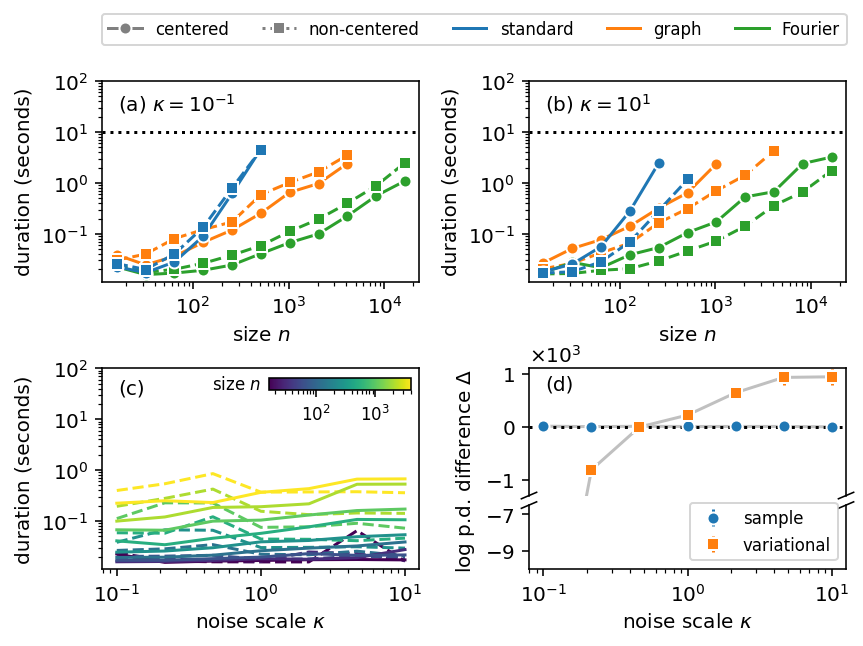
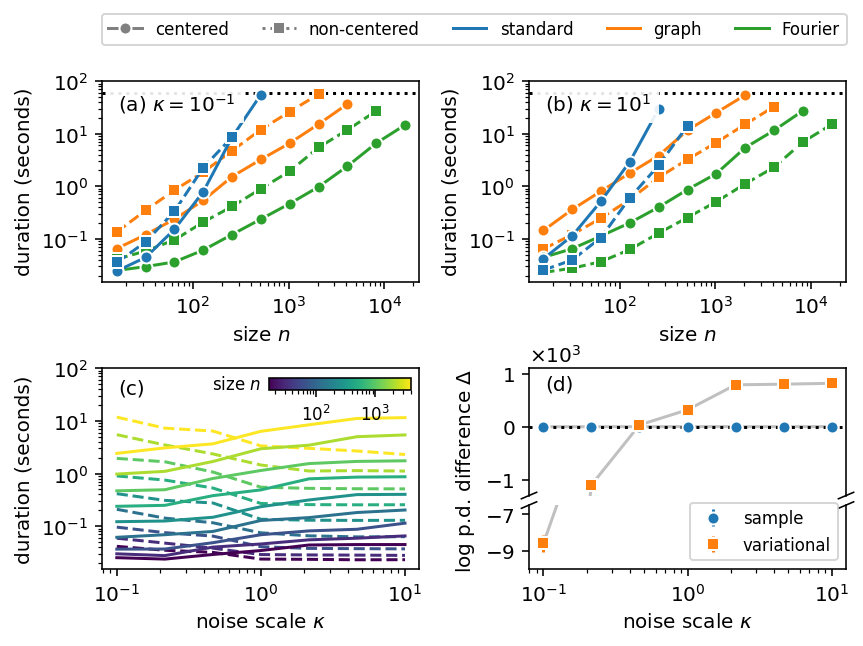
Update profiling script and re-generate figures with larger sample size.

diff --git a/profile/profile.md b/profile/profile.md
@@ -20,7 +20,6 @@ import matplotlib as mpl
 from matplotlib import pyplot as plt
 import numpy as np
 import pickle
-from gptools.stan.profile import PARAMETERIZATIONS, LOG10_NOISE_SCALES, SIZES
 import os
 import pandas as pd
 import re
@@ -28,6 +27,13 @@ from scipy import stats
 import types
 from pathlib import Path
 
+# Same as in `recipe.py`.
+SIZES = 16 * 2 ** np.arange(11)
+LOG10_NOISE_SCALES = np.linspace(-1, 1, 7)
+PARAMETERIZATIONS = [
+    "graph_centered", "graph_non_centered", "fourier_centered", "fourier_non_centered",
+    "standard_centered", "standard_non_centered"
+]
 
 mpl.style.use("../jss.mplstyle")
 fig_width, fig_height = mpl.rcParams["figure.figsize"]
